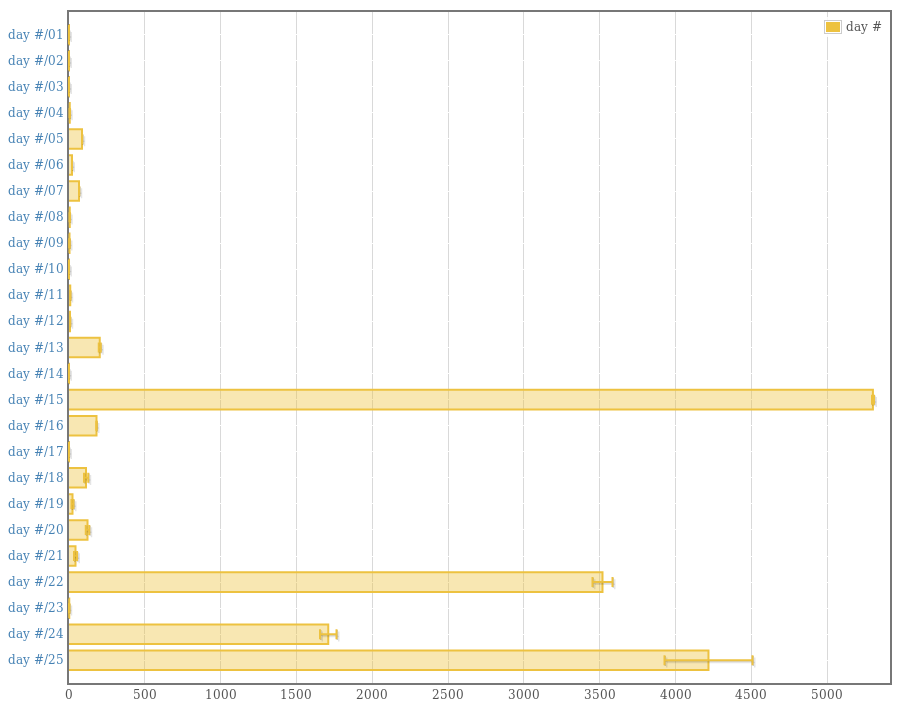
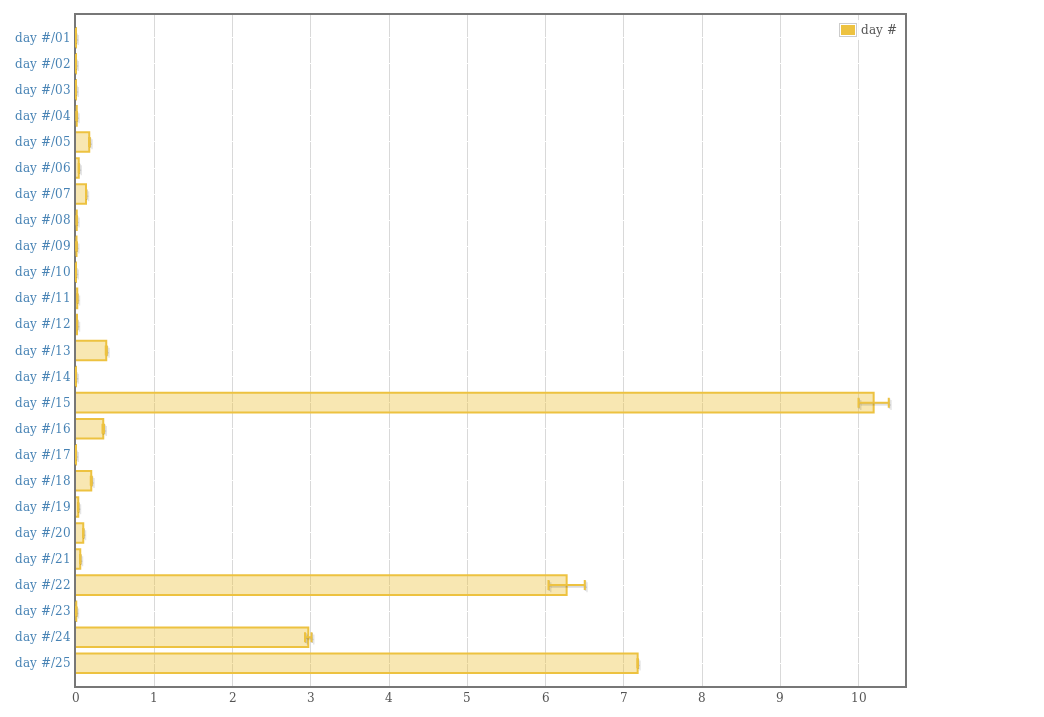
Update benchmarks

diff --git a/README.md b/README.md
@@ -9,12 +9,4 @@ not gather absolute data on.
 Report generated by running
 `stack build && stack exec advent-code --output report.html`
 
-    Slowest (in seconds):
-
-    - Day 15 5.4
-    - Day 25 4.4
-    - Day 22 3.5
-    - Day 24 1.7
-    - All others finish under a second
-
 ![Criterion Benchmark Report](./benchmarks/criterion-report.png)
